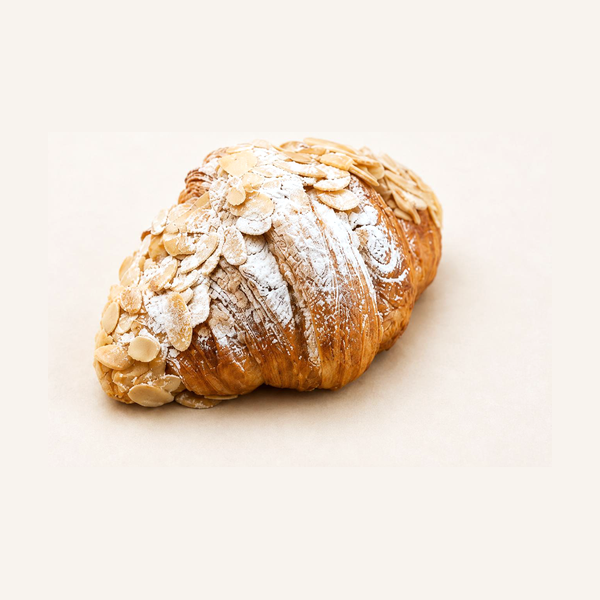
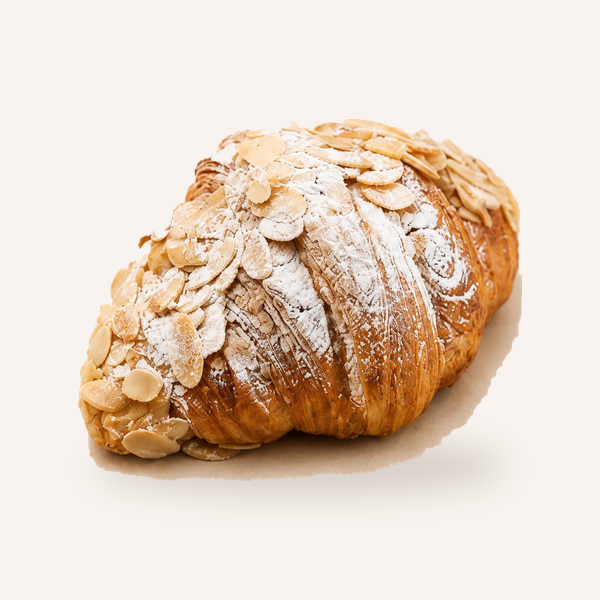
Bakes: full cutout on cream with simple soft shadow (removes visible square)

diff --git a/data.js b/data.js
@@ -113,13 +113,13 @@ window.MENU = [
     blurb: 'Freshly baked. Best enjoyed with a coffee.',
     items: [
       // NOTE: prices, ingredients and nutrition below are placeholders — replace with real values.
-      { name: 'Plain Croissant',   ingr: 'butter, flour', price: 2.50, color: '#C68A3E', img: 'assets/drinks/bake-plain-croissant.png?v=2',
+      { name: 'Plain Croissant',   ingr: 'butter, flour', price: 2.50, color: '#C68A3E', img: 'assets/drinks/bake-plain-croissant.png?v=3',
         allergens: ['Gluten', 'Milk', 'Egg'], nutrition: { kj: 1130, kcal: 270, fat: 14, satFat: 8, carbs: 30, sugars: 6, fibre: 1.5, protein: 5, sodium: 300 } },
-      { name: 'Almond Croissant',  ingr: 'almond frangipane, flaked almonds', price: 3.20, color: '#B98A5E', img: 'assets/drinks/bake-almond-croissant.png?v=2',
+      { name: 'Almond Croissant',  ingr: 'almond frangipane, flaked almonds', price: 3.20, color: '#B98A5E', img: 'assets/drinks/bake-almond-croissant.png?v=3',
         allergens: ['Gluten', 'Milk', 'Egg', 'Tree nuts (almond)'], nutrition: { kj: 1760, kcal: 420, fat: 24, satFat: 10, carbs: 42, sugars: 18, fibre: 3, protein: 9, sodium: 320 } },
-      { name: 'Blueberry Muffin',  ingr: 'blueberries, vanilla', price: 2.80, color: '#3E5AA0', img: 'assets/drinks/bake-blueberry-muffin.png?v=2',
+      { name: 'Blueberry Muffin',  ingr: 'blueberries, vanilla', price: 2.80, color: '#3E5AA0', img: 'assets/drinks/bake-blueberry-muffin.png?v=3',
         allergens: ['Gluten', 'Milk', 'Egg'], nutrition: { kj: 1590, kcal: 380, fat: 16, satFat: 3, carbs: 54, sugars: 30, fibre: 2, protein: 5, sodium: 350 } },
-      { name: 'Cinnamon Roll',     ingr: 'cinnamon, brown sugar, icing', price: 3.20, color: '#8B5A2B', img: 'assets/drinks/bake-cinnamon-roll.png?v=2',
+      { name: 'Cinnamon Roll',     ingr: 'cinnamon, brown sugar, icing', price: 3.20, color: '#8B5A2B', img: 'assets/drinks/bake-cinnamon-roll.png?v=3',
         allergens: ['Gluten', 'Milk', 'Egg'], nutrition: { kj: 1510, kcal: 360, fat: 12, satFat: 5, carbs: 56, sugars: 26, fibre: 2, protein: 6, sodium: 340 } },
     ],
   },
